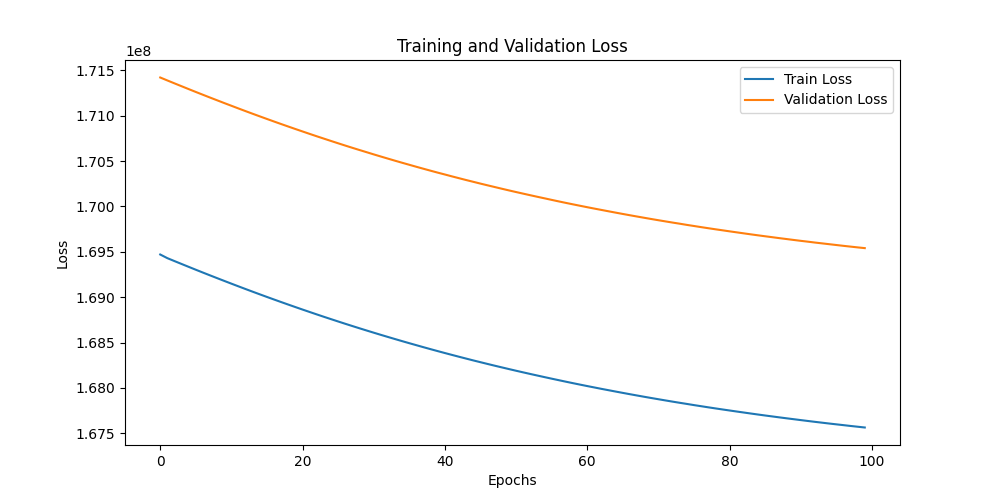
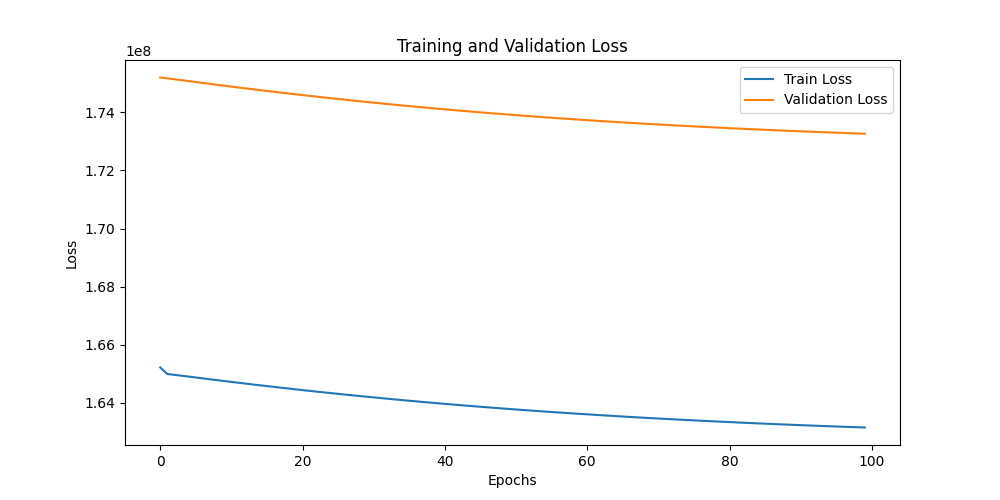
ejercicio3 sin resolver

diff --git a/src/exercise_03/train.py b/src/exercise_03/train.py
@@ -1,0 +1,130 @@
+from pathlib import Path
+
+import matplotlib.pyplot as plt
+import torch
+import torch.nn as nn
+import torch.optim as optim
+from torch.utils.data import DataLoader, random_split
+from tqdm import tqdm
+
+from .dataset import NoisyRegressionDataset
+from .model import MultiplePerceptron
+
+def get_device(force: str = "auto") -> torch.device:
+    """Return a torch.device based on the `force` option.
+
+    force: 'auto'|'cpu'|'cuda' - when 'auto' will pick cuda if available.
+    """
+    force = force.lower()
+    if force == "cpu":
+        return torch.device("cpu")
+    if force == "cuda":
+        return torch.device("cuda")
+    # auto
+    return torch.device("cuda" if torch.cuda.is_available() else "cpu")
+
+def train_model(output_folder: Path, device: torch.device):
+    # Create an instance of the dataset
+    dataset = NoisyRegressionDataset(size=10000)
+
+    # Split the dataset into train, validation, and test sets
+    train_size = int(0.7 * len(dataset))
+    val_size = int(0.15 * len(dataset))
+    test_size = len(dataset) - train_size - val_size
+    train_dataset, val_dataset, test_dataset = random_split(
+        dataset, [train_size, val_size, test_size]
+    )
+
+    # Create DataLoaders for the datasets
+    pin_memory = True if device.type == "cuda" else False
+    train_loader = DataLoader(train_dataset, batch_size=10, shuffle=True, pin_memory=pin_memory)
+    val_loader = DataLoader(val_dataset, batch_size=10, shuffle=False, pin_memory=pin_memory)
+
+    # Define the model, loss function, and optimizer
+    input_dim = 1
+    output_dim = 1
+    model = MultiplePerceptron(input_dim, output_dim).to(device)
+    criterion = nn.MSELoss()
+    optimizer = optim.AdamW(model.parameters(), lr=0.0001)
+
+    # Training loop with validation and saving best weights
+    num_epochs = 100
+    best_val_loss = float("inf")
+    best_model_path = output_folder / "best_model.pth"
+
+    train_losses = []
+    val_losses = []
+
+    for epoch in tqdm(range(num_epochs)):
+        model.train()
+        train_loss = 0
+        for inputs, targets in train_loader:
+            # Forward pass
+            inputs_cuda = inputs.to(device)
+            targets_cuda = targets.to(device)
+            outputs = model(inputs_cuda, use_activation=False)
+            loss = criterion(outputs, targets_cuda)
+
+
+
+            train_loss += loss.item()
+
+            # Backward pass and optimization
+            optimizer.zero_grad()
+            loss.backward()
+            optimizer.step()
+
+        train_loss /= len(train_loader)
+        train_losses.append(train_loss)
+
+        # Validation step
+        model.eval()
+        val_loss = 0
+        with torch.no_grad():
+            for inputs, targets in val_loader:
+                inputs_cuda = inputs.to(device)
+                targets_cuda = targets.to(device)
+                outputs = model(inputs_cuda, use_activation=False)
+                loss = criterion(outputs, targets_cuda)
+                val_loss += loss.item()
+
+        val_loss /= len(val_loader)
+        val_losses.append(val_loss)
+
+        if val_loss < best_val_loss:
+            best_val_loss = val_loss
+            torch.save(model.state_dict(), best_model_path)
+
+        if (epoch + 1) % 10 == 0:
+            print(
+                f"Epoch [{epoch+1}/{num_epochs}], Train Loss: {train_loss:.4f}, Validation Loss: {val_loss:.4f}"
+            )
+
+    print(f"Best validation loss: {best_val_loss:.4f}, Model saved to {best_model_path}")
+
+    # Plotting the training and validation loss
+    plt.figure(figsize=(10, 5))
+    plt.plot(range(num_epochs), train_losses, label="Train Loss")
+    plt.plot(range(num_epochs), val_losses, label="Validation Loss")
+    plt.xlabel("Epochs")
+    plt.ylabel("Loss")
+    plt.legend()
+    plt.title("Training and Validation Loss")
+
+    # Save the plot to the outs/ folder
+    plt.savefig(output_folder / "loss_plot.png")
+    plt.savefig(output_folder / "loss_plot.png")
+
+if __name__ == "__main__":
+    # Create output folder based on file folder
+    output_folder = Path(__file__).parent.parent.parent / "outs" / Path(__file__).parent.name  
+    output_folder.mkdir(exist_ok=True, parents=True)
+
+    device = get_device("auto") # choices are "auto", "cpu", "cuda"
+    print(f"Using device: {device}")
+    train_model(output_folder, device=device)
+
+    # Set the seed for reproducibility
+    torch.manual_seed(42)
+    
+    

diff --git a/src/exercise_03/evaluate.py b/src/exercise_03/evaluate.py
@@ -1,0 +1,132 @@
+from pathlib import Path
+
+import matplotlib.pyplot as plt
+import numpy as np
+import pandas as pd
+import seaborn as sns
+import torch
+from torch.utils.data import DataLoader, random_split
+
+from .dataset import NoisyRegressionDataset
+from .model import MultiplePerceptron
+
+
+def evaluate_and_plot(loader,model, dataset_name, output_folder):
+    model.eval()
+    all_inputs = []
+    all_outputs = []
+    all_targets = []
+
+    with torch.no_grad():
+        for inputs, targets in loader:
+            outputs = model(inputs)
+            all_inputs.append(inputs.numpy())
+            all_outputs.append(outputs.numpy())
+            all_targets.append(targets.numpy())
+
+    all_inputs = np.concatenate(all_inputs)
+    all_outputs = np.concatenate(all_outputs)
+    all_targets = np.concatenate(all_targets)
+
+    df = pd.DataFrame(
+        data=np.array(
+            [all_inputs.flatten(), all_targets.flatten(), all_outputs.flatten()]
+        ).transpose(),
+        columns=["x", "y_true", "y_pred"],
+    )
+
+    # Calculate r2, MAE and MSE
+    r2 = 1 - np.sum((all_targets - all_outputs) ** 2) / np.sum(
+        (all_targets - np.mean(all_targets)) ** 2
+    )
+    mae = np.mean(np.abs(all_targets - all_outputs))
+    mse = np.mean((all_targets - all_outputs) ** 2)
+
+    metrics = {
+        "R2": r2,
+        "MAE": mae,
+        "MSE": mse,
+    }
+
+    print(f"Evaluation metrics for {dataset_name} dataset:")
+    print(metrics)
+
+    ax = sns.regplot(df, x="y_true", y="y_pred", label=dataset_name)
+    ax.set_title(f"Regression plot for {dataset_name} dataset")
+    plt.legend()
+    plt.savefig(f"{output_folder}/{dataset_name}_regression_plot.png")
+    plt.show()
+    plt.close()
+
+    # Plot the data points
+    plt.figure(figsize=(10, 6))
+    sns.scatterplot(data=df, x="x", y="y_true", label="True")
+    sns.scatterplot(data=df, x="x", y="y_pred", label="Predicted")
+    plt.xlabel("x")
+    plt.ylabel("y")  # Adding y label
+    plt.title(f"Data points for {dataset_name} dataset")
+    plt.legend()
+    plt.savefig(f"{output_folder}/{dataset_name}_data_points_plot.png")
+    plt.show()
+    plt.close()
+
+    return metrics
+
+
+def save_metrics_as_picture(metrics, filepath):
+    # Create a DataFrame
+    df = pd.DataFrame(metrics)
+
+    # Round the values to 3 decimal places
+    df = df.round(3)
+
+    # Plot the table and save as an image
+    fig, ax = plt.subplots(figsize=(8, 2))  # set size frame
+    ax.axis("tight")
+    ax.axis("off")
+    table = ax.table(
+        cellText=df.values, colLabels=df.columns, rowLabels=df.index, cellLoc="center", loc="center"
+    )
+
+    # Save the plot as an image
+    plt.savefig(filepath)
+
+
+if __name__ == "__main__":
+    output_folder = Path(__file__).parent.parent.parent / "outs" / Path(__file__).parent.name
+    output_folder.mkdir(exist_ok=True, parents=True)
+    # Set the seed for reproducibility
+    torch.manual_seed(42)
+    # Create an instance of the dataset
+    dataset = NoisyRegressionDataset(size=10000)
+
+    # Split the dataset into train, validation, and test sets
+    train_size = int(0.7 * len(dataset))
+    val_size = int(0.15 * len(dataset))
+    test_size = len(dataset) - train_size - val_size
+    train_dataset, val_dataset, test_dataset = random_split(
+        dataset, [train_size, val_size, test_size]
+    )
+
+    # Create DataLoaders for the datasets
+    train_loader = DataLoader(train_dataset, batch_size=10, shuffle=True)
+    val_loader = DataLoader(val_dataset, batch_size=10, shuffle=False)
+    test_loader = DataLoader(test_dataset, batch_size=10, shuffle=False)
+
+    # Load the best model weights
+    model = MultiplePerceptron(input_dim=1, output_dim=1)
+    model.load_state_dict(torch.load(output_folder / "best_model.pth"))
+
+    metrics = {}
+    # Evaluate and plot for train, validation and test datasets
+    metrics["train"] = evaluate_and_plot(train_loader, model, "train", output_folder)
+    metrics["validation"] = evaluate_and_plot(val_loader, model, "validation", output_folder)
+    metrics["test"] = evaluate_and_plot(test_loader, model, "test", output_folder)
+
+    # save  metrics as csv
+    pd.DataFrame(metrics).to_csv(output_folder / "metrics.csv")
+
+    # Save the metrics as an image
+    save_metrics_as_picture(metrics, output_folder / "metrics.png")
+
+    print("Evaluation complete!")

diff --git a/src/exercise_03/model.py b/src/exercise_03/model.py
@@ -1,0 +1,26 @@
+import torch
+import torch.nn as nn
+
+
+class MultiplePerceptron(nn.Module):
+    def __init__(self, input_dim, output_dim):
+        super().__init__()
+        self.fc = nn.Linear(input_dim, output_dim)
+        self.activation = nn.ReLU()
+
+    def forward(self, x, use_activation=True,layers=5):
+        for _ in range(layers-1):
+            x = self.fc(x)
+            if use_activation:
+                x = self.activation(x)
+        x = self.fc(x)
+        return x
+            
+        
+
+if __name__ == "__main__":
+    model = MultiplePerceptron(1, 1)
+    print(model)
+    x = torch.tensor([1.0])
+    print(model(x))
+    pass
